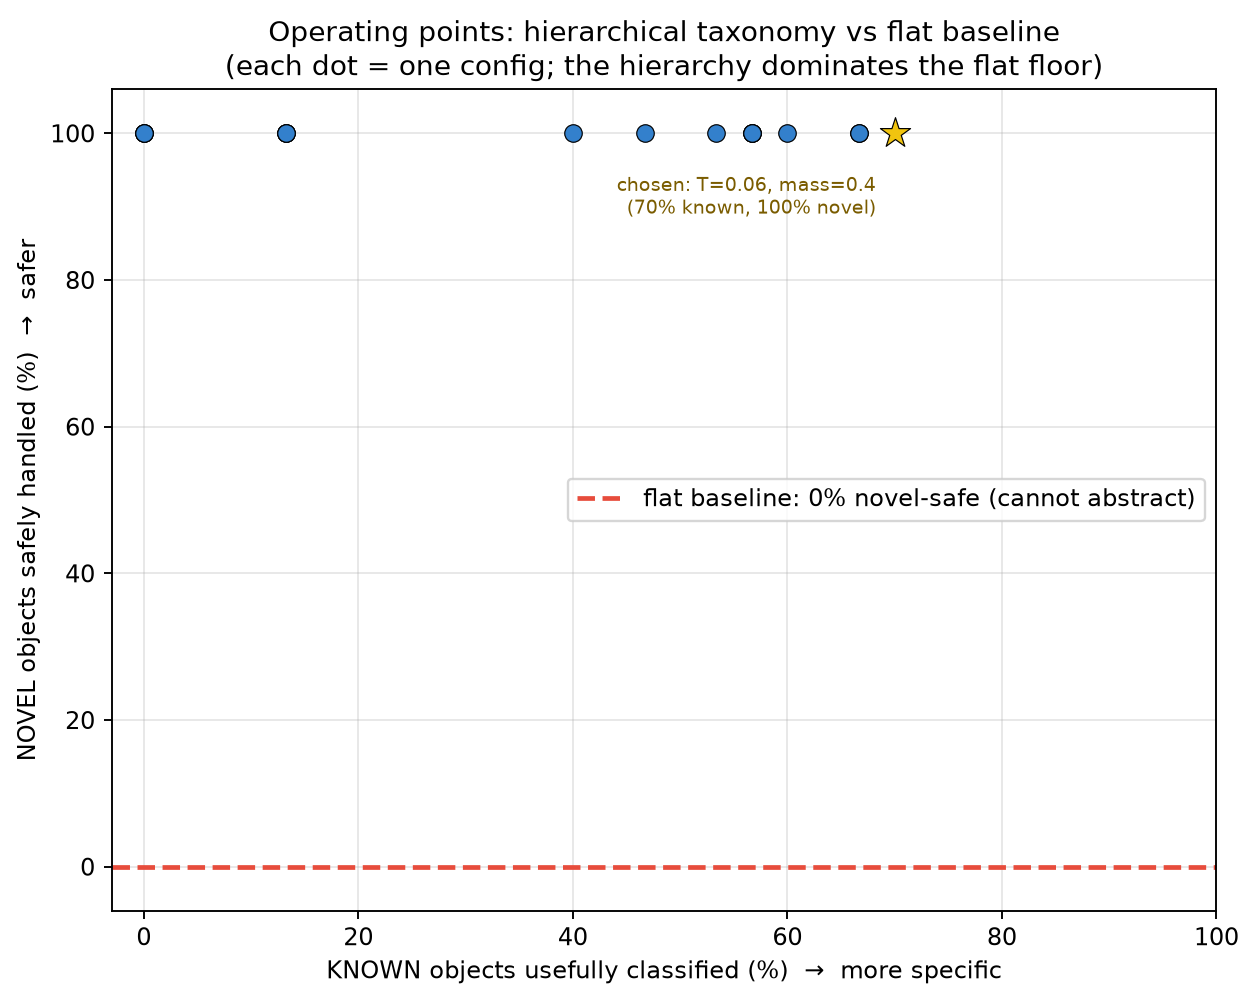
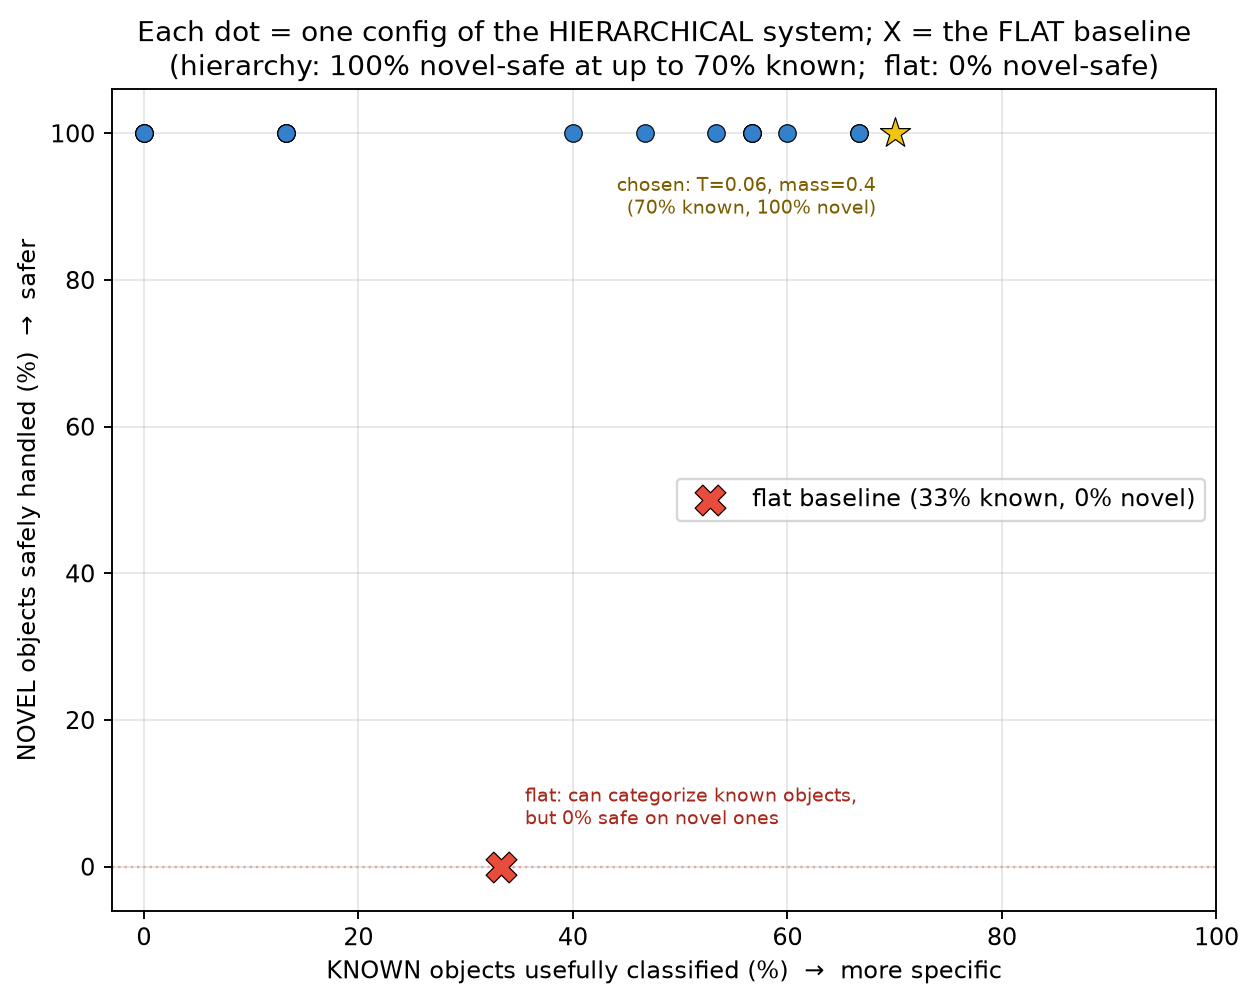
Clarify calibration trade-off plot: flat baseline as a point (33% known, 0% novel)
The flat baseline was drawn as a y=0 line, which hid its 33% known-object score
and made the plot look inconsistent with the bar chart. Plot it as a single
marker at (flat known %, 0) so both figures agree; retitle so the axes (two
different populations: novel-safety on y, known-specificity on x) are explicit.

Changed region(s): [[0.1243, 0.0, 0.9323, 0.0929], [0.4661, 0.4645, 0.9323, 0.5265], [0.3729, 0.7742, 0.6837, 0.8981]]

diff --git a/scripts/calibrate.py b/scripts/calibrate.py
@@ -111,7 +111,7 @@ def main():
           flush=True)
 
 
-def plot(results):
+def plot(results, flat_known_pct=None):
     fig, ax = plt.subplots(figsize=(7.5, 6))
     best = max(results, key=lambda r: r["known_good_pct"] + r["novel_safe_pct"])
     for r in results:
@@ -127,16 +127,23 @@ def plot(results):
         (best["known_good_pct"], best["novel_safe_pct"]),
         fontsize=8, xytext=(-8, -34), textcoords="offset points",
         ha="right", color="#7a5c00")
-    # Flat baseline: 0% novel safety at ANY known accuracy -> a floor line.
-    ax.axhline(0, color="#e74c3c", lw=2, ls="--",
-               label="flat baseline: 0% novel-safe (cannot abstract)")
+    # Flat baseline: 0% novel-safety, and its known accuracy on the x-axis.
+    fx = flat_known_pct if flat_known_pct is not None else 0.0
+    ax.axhline(0, color="#e74c3c", lw=1, ls=":", alpha=0.5, zorder=1)
+    ax.scatter([fx], [0], marker="X", s=170, c="#e74c3c", edgecolors="k",
+               linewidths=0.5, zorder=5,
+               label=f"flat baseline ({fx:.0f}% known, 0% novel)")
+    ax.annotate("flat: can categorize known objects,\nbut 0% safe on novel ones",
+                (fx, 0), fontsize=8, xytext=(10, 18), textcoords="offset points",
+                color="#a5281b")
     ax.set_xlabel("KNOWN objects usefully classified (%)  →  more specific")
     ax.set_ylabel("NOVEL objects safely handled (%)  →  safer")
     ax.set_xlim(-3, 100)
     ax.set_ylim(-6, 106)
     ax.grid(alpha=0.3)
-    ax.set_title("Operating points: hierarchical taxonomy vs flat baseline\n"
-                 "(each dot = one config; the hierarchy dominates the flat floor)")
+    ax.set_title("Each dot = one config of the HIERARCHICAL system; "
+                 "X = the FLAT baseline\n"
+                 "(hierarchy: 100% novel-safe at up to 70% known;  flat: 0% novel-safe)")
     ax.legend(loc="center right")
     fig.tight_layout()
     fig.savefig(OUT / "calibration_tradeoff.png", dpi=170, bbox_inches="tight")
